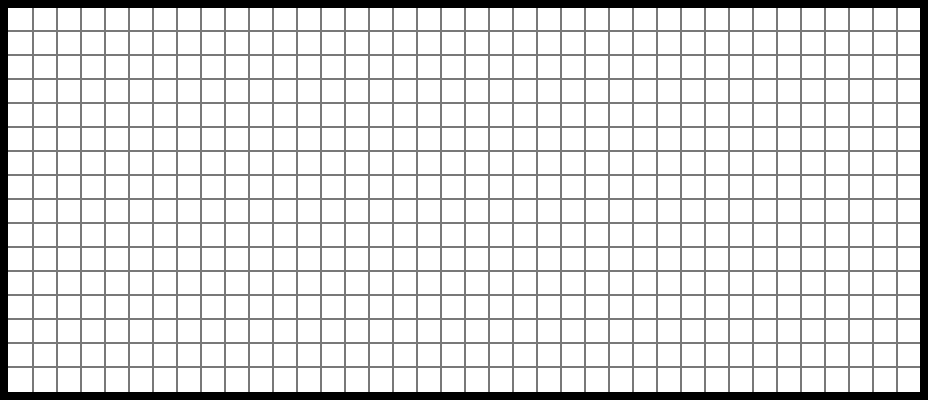
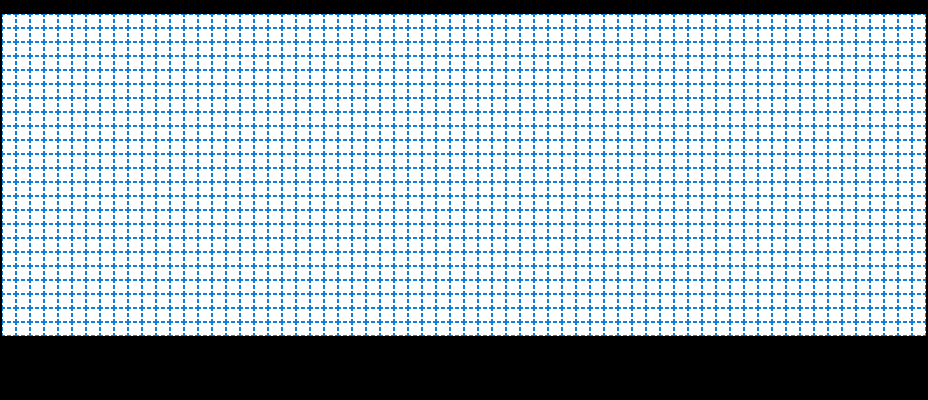
updated grid

diff --git a/game/public/js/classes/background/layer.js b/game/public/js/classes/background/layer.js
@@ -1,9 +1,10 @@
 // layer class
 class Layer extends Sprite{
-    constructor({position, width, parallaxSpeed = 0, imageSrc}){
+    constructor({position, width, parallaxSpeed = 0, grid = false, imageSrc}){
         super({position, imageSrc});
         this.width = width;
         this.parallaxSpeed = parallaxSpeed;
+        this.grid = grid;
         this.loadLayer = true;
     };
 
@@ -11,11 +12,20 @@ class Layer extends Sprite{
 
     // update layer
     update(){
+        c.save();
         this.parallax();
+        if(this.grid){this.updateGrid();}
         this.draw();
+        c.restore();
+    };
+
+    updateGrid(){
+        c.filter = "opacity(.6)";
     };
 
     parallax(){
         this.position.x = -camera.position.x * this.parallaxSpeed;
     };
+
+    
 };

diff --git a/game/public/js/data/maps/forest.js b/game/public/js/data/maps/forest.js
@@ -16,7 +16,7 @@ function createForest(){
             image10: {imageSrc: "../assets/images/maps/forest/forest10.png", front: true}
         }
     });
-    const gridForest = {position: {x: 8, y: 8}};
+    const gridForest = {position: {x: 2, y: 0}};
     const staticBackgroundForest = null;
     
     
@@ -50,9 +50,9 @@ function createForest(){
 
 
     const floorForest = new CollisionBlock({
-        position: {x: 0, y: forest.height - 63},
+        position: {x: 0, y: forest.height - 64},
         width: forest.width,
-        height: 25
+        height: 64
     });
     allCollisionBlocksForest.push(floorForest);
 

diff --git a/game/public/js/classes/background/backgroundLayered.js b/game/public/js/classes/background/backgroundLayered.js
@@ -12,6 +12,7 @@ class BackgroundLayered{
                 position: {x: 0, y: 0},
                 width: this.width,
                 parallaxSpeed: this.images[image].parallaxSpeed,
+                grid: this.images[image].grid,
                 imageSrc: this.images[image].imageSrc
             });
             if(this.images[image].grid){this.gridLayer = layer;}
